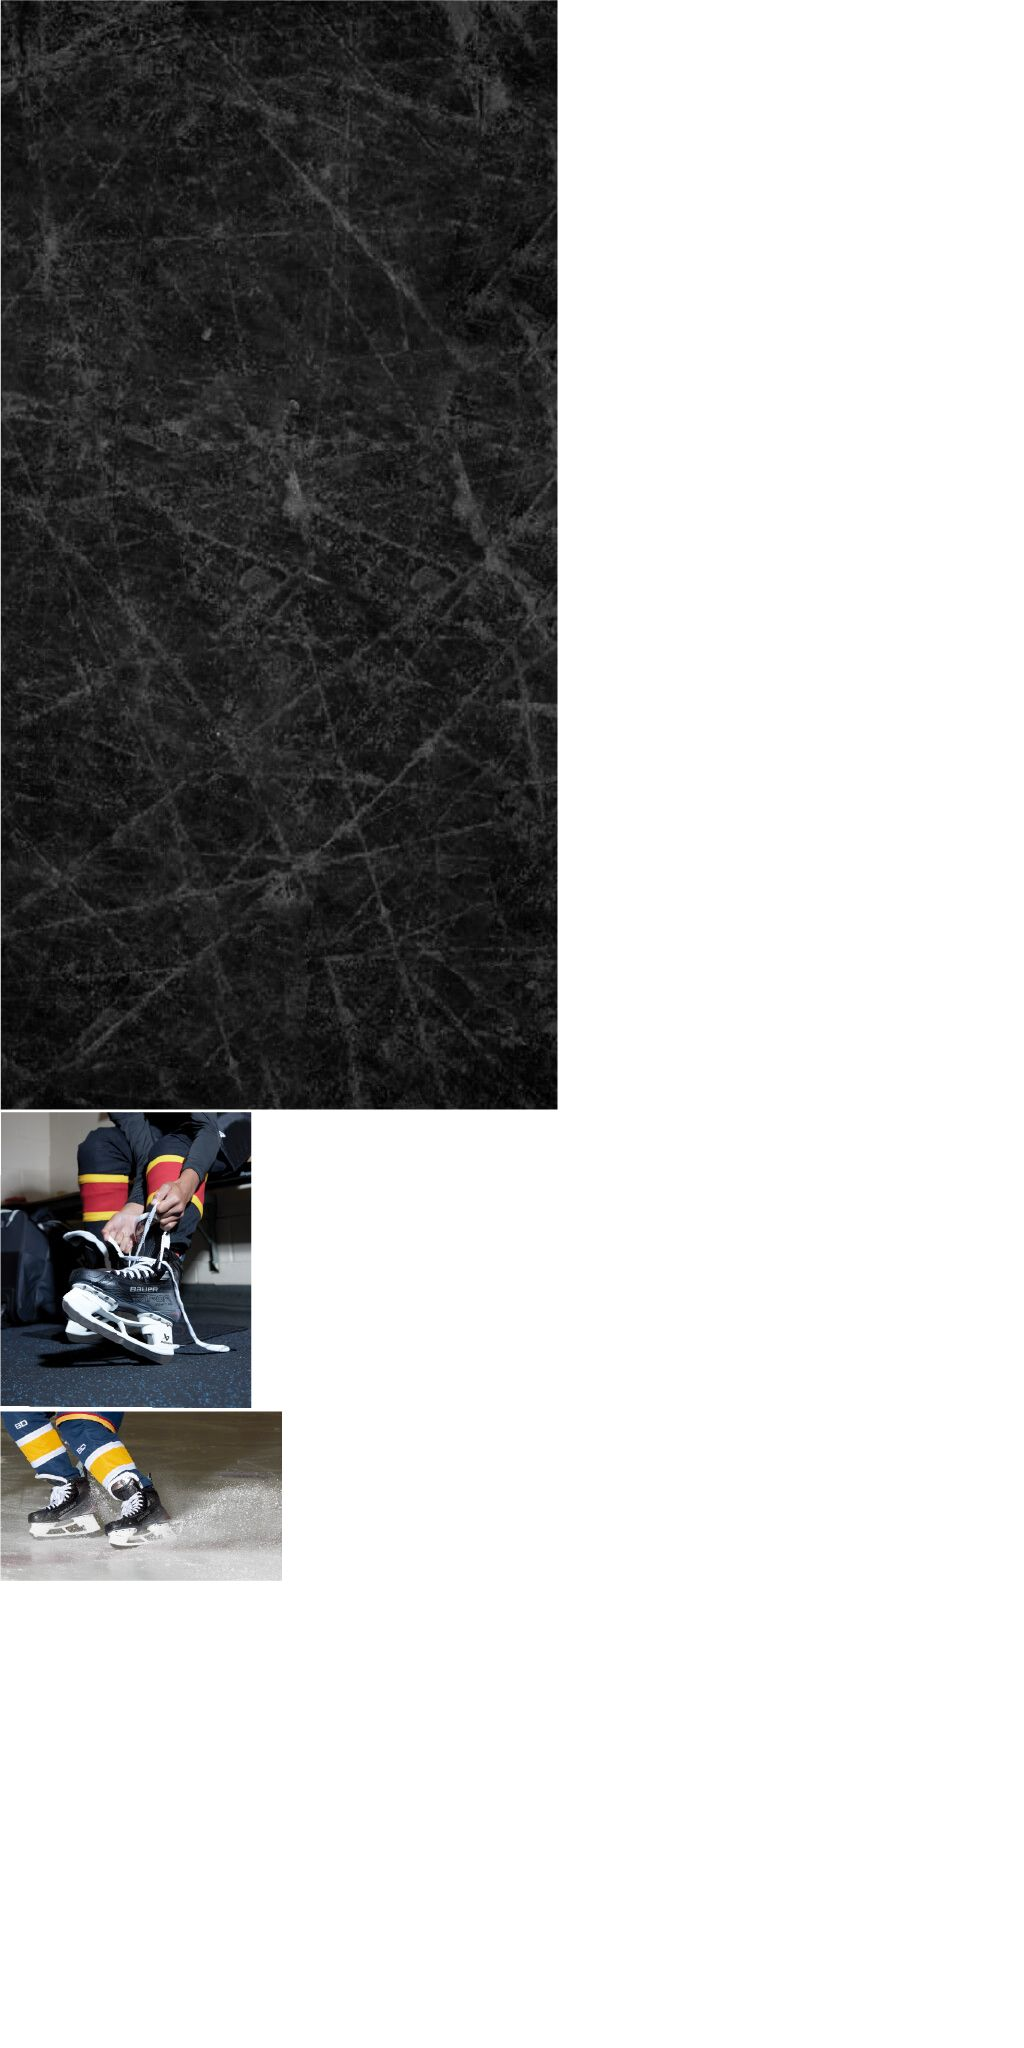
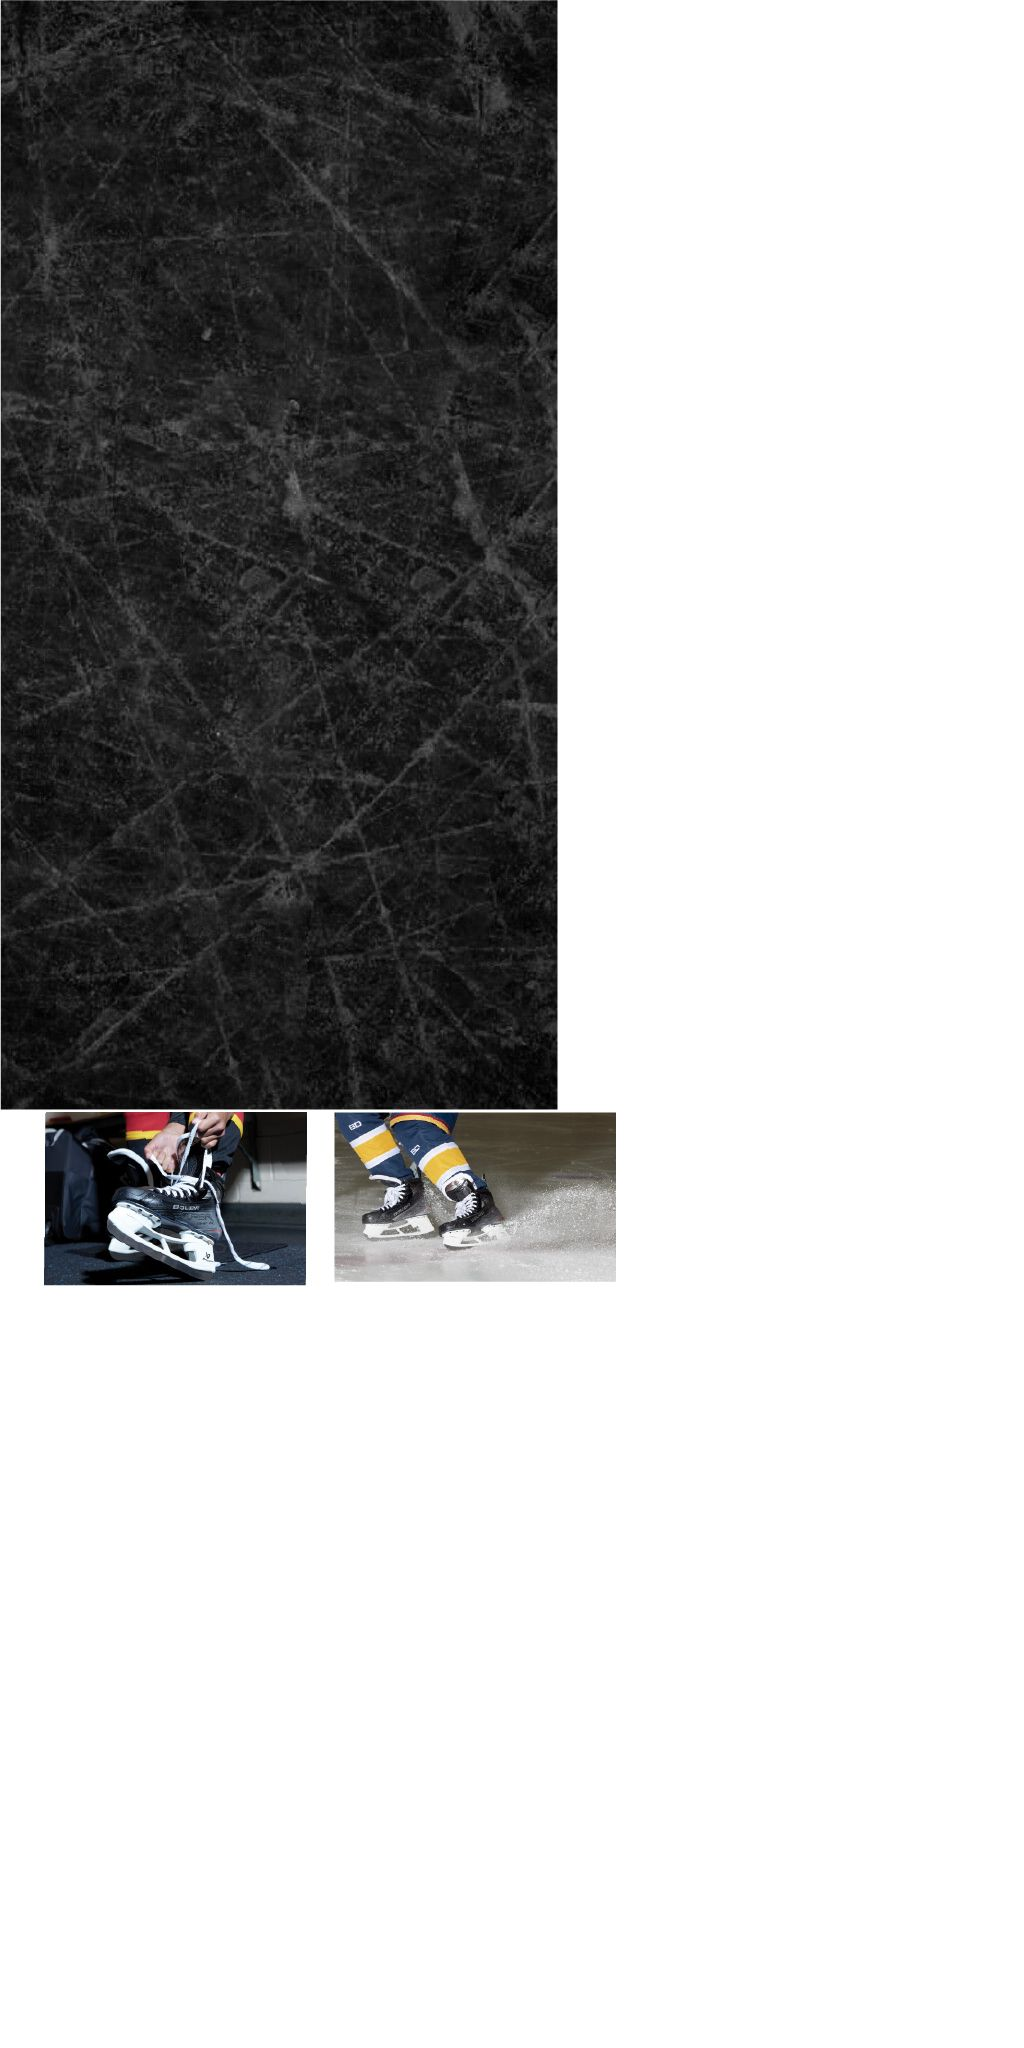
shift higher res

Changed region(s): [[0.0, 0.5312, 0.625, 0.7812]]

diff --git a/SFS_2023/shift_300x250_en/shift_300x250_en.js b/SFS_2023/shift_300x250_en/shift_300x250_en.js
@@ -3,7 +3,7 @@
 var p; // shortcut to reference prototypes
 var lib={};var ss={};var img={};
 lib.ssMetadata = [
-		{name:"shift_300x250_en_atlas_1", frames: [[0,0,558,1110],[0,1112,252,297],[0,1411,282,170]]}
+		{name:"shift_300x250_en_atlas_1", frames: [[0,0,558,1110],[0,1112,332,174],[334,1112,282,170]]}
 ];
 
 
@@ -34,14 +34,14 @@ lib.ssMetadata = [
 
 
 
-(lib.Asset2pngcopy = function() {
+(lib.Asset16shiftImage1BB = function() {
 	this.initialize(ss["shift_300x250_en_atlas_1"]);
 	this.gotoAndStop(1);
 }).prototype = p = new cjs.Sprite();
 
 
 
-(lib.Asset8shiftImage2BB = function() {
+(lib.Asset17shiftImage2BB = function() {
 	this.initialize(ss["shift_300x250_en_atlas_1"]);
 	this.gotoAndStop(2);
 }).prototype = p = new cjs.Sprite();
@@ -176,12 +176,12 @@ if (reversed == null) { reversed = false; }
 	// Layer_3 (mask)
 	var mask = new cjs.Shape();
 	mask._off = true;
-	mask.graphics.p("AtWhEIAAyYIatAAIAASYg");
-	mask.setTransform(53.525,-124.5087);
+	mask.graphics.p("AtWJMIAAyXIatAAIAASXg");
+	mask.setTransform(53.525,-190.175);
 
-	// Layer_2
-	this.instance = new lib.Asset8shiftImage2BB();
-	this.instance.setTransform(-33,-250,0.6927,0.6927);
+	// Layer_4
+	this.instance = new lib.Asset17shiftImage2BB();
+	this.instance.setTransform(-34,-250,0.6844,0.6844);
 
 	var maskedShapeInstanceList = [this.instance];
 
@@ -193,7 +193,7 @@ if (reversed == null) { reversed = false; }
 
 	this._renderFirstFrame();
 
-}).prototype = getMCSymbolPrototype(lib.skate2, new cjs.Rectangle(-32,-249,171.1,116.80000000000001), null);
+}).prototype = getMCSymbolPrototype(lib.skate2, new cjs.Rectangle(-32,-249,171.1,115.4), null);
 
 
 (lib.skate1 = function(mode,startPosition,loop,reversed) {
@@ -210,12 +210,12 @@ if (reversed == null) { reversed = false; }
 	// Layer_1 (mask)
 	var mask = new cjs.Shape();
 	mask._off = true;
-	mask.graphics.p("AsuI5IAAxxIZcAAIAARxg");
-	mask.setTransform(178.4,-113.7);
+	mask.graphics.p("AsuJEIAAyHIZcAAIAASHg");
+	mask.setTransform(178.4,-112.65);
 
-	// Layer_2
-	this.instance = new lib.Asset2pngcopy();
-	this.instance.setTransform(95,-223,0.6531,0.6531);
+	// Layer_3
+	this.instance = new lib.Asset16shiftImage1BB();
+	this.instance.setTransform(65,-172,0.6764,0.6764);
 
 	var maskedShapeInstanceList = [this.instance];
 
@@ -227,7 +227,7 @@ if (reversed == null) { reversed = false; }
 
 	this._renderFirstFrame();
 
-}).prototype = getMCSymbolPrototype(lib.skate1, new cjs.Rectangle(97,-170.6,162.60000000000002,113.89999999999999), null);
+}).prototype = getMCSymbolPrototype(lib.skate1, new cjs.Rectangle(97,-170.6,162.89999999999998,116), null);
 
 
 (lib.logo_en_stacked = function(mode,startPosition,loop,reversed) {
@@ -879,7 +879,7 @@ if (reversed == null) { reversed = false; }
 	this._renderFirstFrame();
 
 }).prototype = p = new lib.AnMovieClip();
-p.nominalBounds = new cjs.Rectangle(-109.6,125,607,475);
+p.nominalBounds = new cjs.Rectangle(-109.6,125,603.6,475);
 // library properties:
 lib.properties = {
 	id: '758E0282264D47629A39BAD509FAEF4B',

diff --git a/SFS_2023/shift_336x280_en/shift_336x280_en.js b/SFS_2023/shift_336x280_en/shift_336x280_en.js
@@ -3,7 +3,7 @@
 var p; // shortcut to reference prototypes
 var lib={};var ss={};var img={};
 lib.ssMetadata = [
-		{name:"shift_336x280_en_atlas_1", frames: [[0,0,558,1110],[0,1112,252,297],[0,1411,282,170]]}
+		{name:"shift_336x280_en_atlas_1", frames: [[0,0,558,1110],[0,1112,332,174],[334,1112,282,170]]}
 ];
 
 
@@ -34,14 +34,14 @@ lib.ssMetadata = [
 
 
 
-(lib.Asset2pngcopy = function() {
+(lib.Asset16shiftImage1BB = function() {
 	this.initialize(ss["shift_336x280_en_atlas_1"]);
 	this.gotoAndStop(1);
 }).prototype = p = new cjs.Sprite();
 
 
 
-(lib.Asset8shiftImage2BB = function() {
+(lib.Asset17shiftImage2BB = function() {
 	this.initialize(ss["shift_336x280_en_atlas_1"]);
 	this.gotoAndStop(2);
 }).prototype = p = new cjs.Sprite();
@@ -179,9 +179,9 @@ if (reversed == null) { reversed = false; }
 	mask.graphics.p("AtWhEIAAyYIatAAIAASYg");
 	mask.setTransform(53.525,-124.5087);
 
-	// Layer_2
-	this.instance = new lib.Asset8shiftImage2BB();
-	this.instance.setTransform(-33,-250,0.6927,0.6927);
+	// Layer_4
+	this.instance = new lib.Asset17shiftImage2BB();
+	this.instance.setTransform(-33,-251,0.6985,0.6985);
 
 	var maskedShapeInstanceList = [this.instance];
 
@@ -210,12 +210,12 @@ if (reversed == null) { reversed = false; }
 	// Layer_1 (mask)
 	var mask = new cjs.Shape();
 	mask._off = true;
-	mask.graphics.p("AsuI5IAAxxIZcAAIAARxg");
-	mask.setTransform(178.4,-113.7);
+	mask.graphics.p("AlJEzIAAyHIZcAAIAASHg");
+	mask.setTransform(129.925,-85.3228);
 
-	// Layer_2
-	this.instance = new lib.Asset2pngcopy();
-	this.instance.setTransform(95,-223,0.6531,0.6531);
+	// Layer_3
+	this.instance = new lib.Asset16shiftImage1BB();
+	this.instance.setTransform(66,-172,0.6767,0.6767);
 
 	var maskedShapeInstanceList = [this.instance];
 
@@ -227,7 +227,7 @@ if (reversed == null) { reversed = false; }
 
 	this._renderFirstFrame();
 
-}).prototype = getMCSymbolPrototype(lib.skate1, new cjs.Rectangle(97,-170.6,162.60000000000002,113.89999999999999), null);
+}).prototype = getMCSymbolPrototype(lib.skate1, new cjs.Rectangle(97,-170.6,162.89999999999998,116), null);
 
 
 (lib.logo_en_stacked = function(mode,startPosition,loop,reversed) {
@@ -879,7 +879,7 @@ if (reversed == null) { reversed = false; }
 	this._renderFirstFrame();
 
 }).prototype = p = new lib.AnMovieClip();
-p.nominalBounds = new cjs.Rectangle(-122.7,140,679.7,532);
+p.nominalBounds = new cjs.Rectangle(-122.7,140,681.5,532);
 // library properties:
 lib.properties = {
 	id: '758E0282264D47629A39BAD509FAEF4B',

diff --git a/SFS_2023/shift_300x600_en/shift_300x600_en.js b/SFS_2023/shift_300x600_en/shift_300x600_en.js
@@ -3,7 +3,7 @@
 var p; // shortcut to reference prototypes
 var lib={};var ss={};var img={};
 lib.ssMetadata = [
-		{name:"shift_300x600_en_atlas_1", frames: [[0,0,558,1110],[560,0,252,297],[560,299,241,272]]}
+		{name:"shift_300x600_en_atlas_1", frames: [[0,0,558,1110],[560,0,502,593],[560,595,360,406]]}
 ];
 
 
@@ -34,14 +34,14 @@ lib.ssMetadata = [
 
 
 
-(lib.Asset2pngcopy = function() {
+(lib.Asset14shiftImage1DBL = function() {
 	this.initialize(ss["shift_300x600_en_atlas_1"]);
 	this.gotoAndStop(1);
 }).prototype = p = new cjs.Sprite();
 
 
 
-(lib.Asset3 = function() {
+(lib.Asset15shiftImage2DBLjpgcopy = function() {
 	this.initialize(ss["shift_300x600_en_atlas_1"]);
 	this.gotoAndStop(2);
 }).prototype = p = new cjs.Sprite();
@@ -173,27 +173,9 @@ if (reversed == null) { reversed = false; }
 	props.reversed = reversed;
 	cjs.MovieClip.apply(this,[props]);
 
-	// Layer_2 (mask)
-	var mask = new cjs.Shape();
-	mask._off = true;
-	mask.graphics.p("A1IX3MAAAgvtMAqRAAAMAAAAvtg");
-	mask.setTransform(4.55,47.95);
-
-	// Layer_1
-	this.instance = new lib.Asset3();
-	this.instance.setTransform(-132,-106,1.1232,1.1232);
-
-	var maskedShapeInstanceList = [this.instance];
-
-	for(var shapedInstanceItr = 0; shapedInstanceItr < maskedShapeInstanceList.length; shapedInstanceItr++) {
-		maskedShapeInstanceList[shapedInstanceItr].mask = mask;
-	}
-
-	this.timeline.addTween(cjs.Tween.get(this.instance).wait(1));
-
 	this._renderFirstFrame();
 
-}).prototype = getMCSymbolPrototype(lib.skate2, new cjs.Rectangle(-130.8,-104.8,269.5,304.3), null);
+}).prototype = getMCSymbolPrototype(lib.skate2, new cjs.Rectangle(-130.8,-104.8,268.8,304.3), null);
 
 
 (lib.skate1 = function(mode,startPosition,loop,reversed) {
@@ -214,8 +196,8 @@ if (reversed == null) { reversed = false; }
 	mask.setTransform(93.5,93.7105);
 
 	// Layer_1
-	this.instance = new lib.Asset2pngcopy();
-	this.instance.setTransform(-44,-68,1.1,1.1);
+	this.instance = new lib.Asset14shiftImage1DBL();
+	this.instance.setTransform(-43,-68,0.5513,0.5513);
 
 	var maskedShapeInstanceList = [this.instance];
 
@@ -227,7 +209,7 @@ if (reversed == null) { reversed = false; }
 
 	this._renderFirstFrame();
 
-}).prototype = getMCSymbolPrototype(lib.skate1, new cjs.Rectangle(-44,-66.8,275,321), null);
+}).prototype = getMCSymbolPrototype(lib.skate1, new cjs.Rectangle(-43,-66.8,274,321), null);
 
 
 (lib.logo_en_stacked = function(mode,startPosition,loop,reversed) {

diff --git a/SFS_2023/index.html b/SFS_2023/index.html
@@ -7,7 +7,7 @@
 	<meta http-equiv='expires' content='0'>
 	<meta http-equiv='pragma' content='no-cache'>
 	<title>Conflict - Source For Sports</title>
-	<link rel="stylesheet" href="bananas.css?v=2">
+	<link rel="stylesheet" href="bananas.css?v=3">
 	<link href="https://fonts.googleapis.com/css?family=Poppins:300" rel="stylesheet">
 	<script src="https://ajax.googleapis.com/ajax/libs/jquery/3.2.1/jquery.min.js"></script>
 </head>
